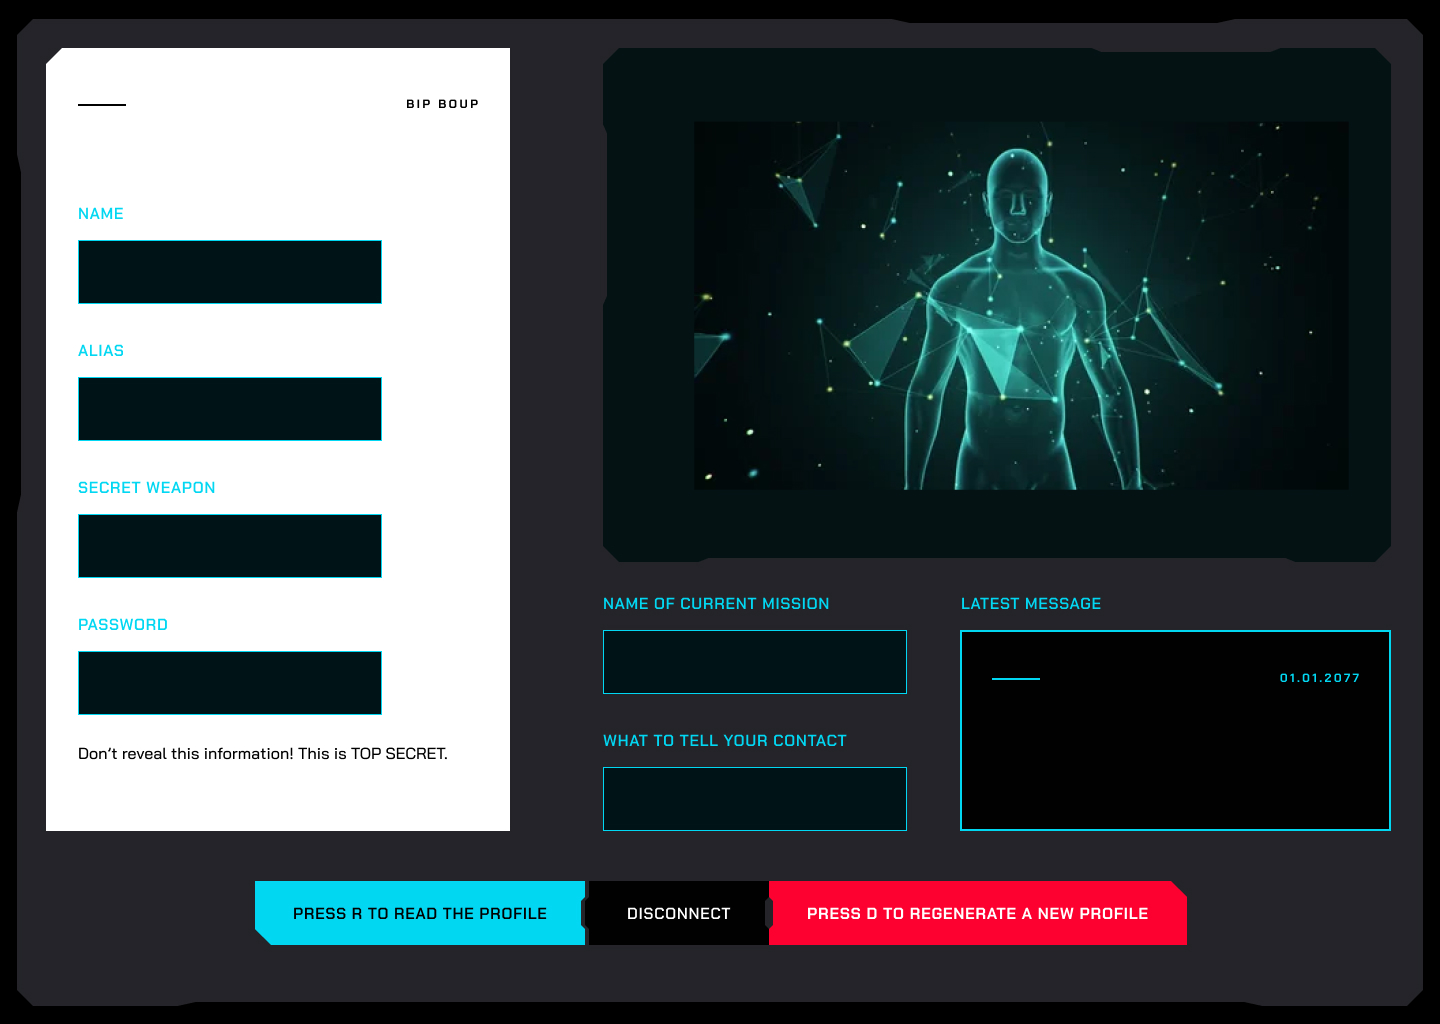
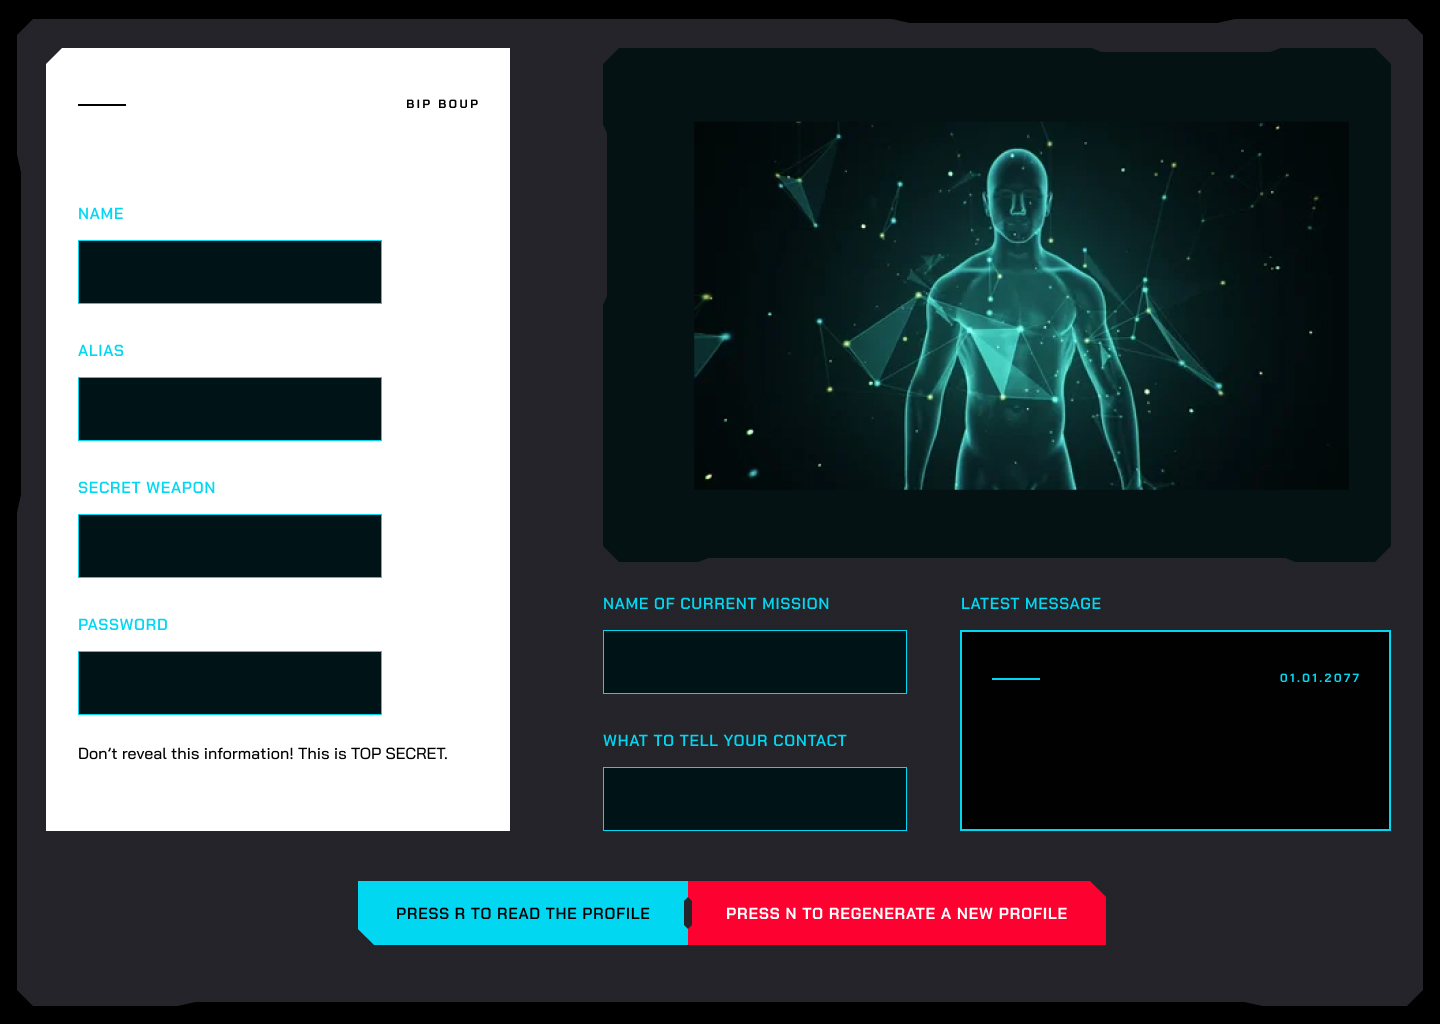
E3: Added a vocal assistant to read the text displayed on the screen

Changed region(s): [[0.1562, 0.8438, 0.8438, 0.9375]]

diff --git a/exercises/spy-profile-generator-plus/js/script.js b/exercises/spy-profile-generator-plus/js/script.js
@@ -22,7 +22,7 @@ const OBJECT_DATA_URL = `https://raw.githubusercontent.com/dariusk/corpora/maste
 const INSTRUMENT_DATA_URL = `https://raw.githubusercontent.com/dariusk/corpora/master/data/music/instruments.json`;
 const CANNABIS_DATA_URL = `https://raw.githubusercontent.com/dariusk/corpora/master/data/plants/cannabis.json`;
 const STATES_OF_DRUNKENNESS = `https://raw.githubusercontent.com/dariusk/corpora/master/data/words/states_of_drunkenness.json`;
-const EGYPTIAN_GODS = `https://raw.githubusercontent.com/dariusk/corpora/master/data/mythology/egyptian_gods.json`;
+const SCIENTISTS = `https://raw.githubusercontent.com/dariusk/corpora/master/data/humans/scientists.json`
 
 // The key used to save and load the data for this program
 const PROFILE_DATA_KEY = `spy-profile-data`;
@@ -43,7 +43,7 @@ let objectsData;
 let instrumentsData;
 let cannabisData;
 let statesOfDrunkennessData;
-let egyptianGodsData;
+let scientistsData;
 
 let imgBg;
 
@@ -58,7 +58,7 @@ function preload() {
   instrumentsData = loadJSON(INSTRUMENT_DATA_URL);
   cannabisData = loadJSON(CANNABIS_DATA_URL);
   statesOfDrunkennessData = loadJSON(STATES_OF_DRUNKENNESS);
-  egyptianGodsData = loadJSON(EGYPTIAN_GODS);
+  scientistsData = loadJSON(SCIENTISTS);
 
   imgBg = loadImage(`assets/images/imgBg.jpg`);
 }
@@ -81,8 +81,7 @@ function setup() {
       // If is is, then setup the spy profile with the data
       setupSpyProfile(data);
     }
-  }
-  else {
+  } else {
     // If there is no data, generate a spy profile for the user
     generateSpyProfile();
   }
@@ -119,7 +118,7 @@ function generateSpyProfile() {
 
   spyProfile.contactCode = random(statesOfDrunkennessData.states_of_drunkenness);
 
-  spyProfile.emergencyContact = random(egyptianGodsData.egyptian_gods);
+  spyProfile.emergencyContact = random(scientistsData.scientists);
 
   // Save the resulting profile to local storage
   localStorage.setItem(PROFILE_DATA_KEY, JSON.stringify(spyProfile));
@@ -133,37 +132,61 @@ function draw() {
   imageMode(LEFT, TOP);
   image(imgBg, 0, 0);
 
-  // Generate the profile as a string using the data
-//   let spyText = `** TOP SECRET SPY PROFILE **
-// Name: ${spyProfile.name}
-// Alias: ${spyProfile.alias}
-// Secret Weapon: ${spyProfile.secretWeapon}
-// Password: ${spyProfile.password}`;
-
   // Display the profile
   push();
   textSize(32);
   textAlign(LEFT, TOP);
   textFont(`Bai Jamjuree, Courier, monospace`);
-  fill(255);
 
+  // Title
+  fill(0);
+  text(`TOP SECRET SPY PROFILE`, 90, 138);
+
+  fill(255);
   // Left part: name, alias, secret weapon, password
   text(spyProfile.name, 100, 258);
   text(spyProfile.alias, 100, 395);
   text(spyProfile.secretWeapon, 100, 532);
   text(spyProfile.password, 100, 669);
-  //  137 Right part: mission, secret phrase
+
+  // Right part: mission, secret phrase
   text(spyProfile.currentMission, 628, 648);
   text(spyProfile.contactCode, 628, 785);
-  // text(spyProfile.emergencyContact, 928, 948);
+
+  textSize(20);
+  text(`In case of emergency, contact ${spyProfile.emergencyContact}.`, 980, 728);
 
 
   pop();
 }
 
 
+// Responsive voice reads the profile.
+function readProfile() {
+
+  let spyText = `TOP SECRET SPY PROFILE.
+  Name: ${spyProfile.name}.
+  Alias: ${spyProfile.alias}.
+  Secret Weapon: ${spyProfile.secretWeapon}.
+  Password: ${spyProfile.password}.
+  Name of current mission: ${spyProfile.currentMission}.
+  The code you need to say when you meet your contact: ${spyProfile.contactCode}.
+  In case of emergency, contact: ${spyProfile.emergencyContact}. But seriously, I wouldn't count on that.
+  Good luck on your mission, agent. Hasta la vista!`;
+
+  responsiveVoice.speak(spyText, "UK English Female");
+}
+
+// User interaction when pressing keys.
 function keyPressed() {
-  if (key === 'd') {
+  console.log(localStorage);
+  // N key to Generate a (N)ew profile
+  if (key === 'n') {
     generateSpyProfile();
+  }
+
+  // R key to (R)ead the profile
+  if (key === 'r') {
+    readProfile();
   }
 }

diff --git a/exercises/spy-profile-generator-plus/index.html b/exercises/spy-profile-generator-plus/index.html
@@ -15,6 +15,8 @@
     <script src="js/libraries/p5.min.js"></script>
     <script src="js/libraries/p5.sound.min.js"></script>
 
+    <script src="https://code.responsivevoice.org/responsivevoice.js?key=SPw7Yeby"></script>
+
     <!-- My script(s) -->
     <script src="js/script.js"></script>
   </head>
